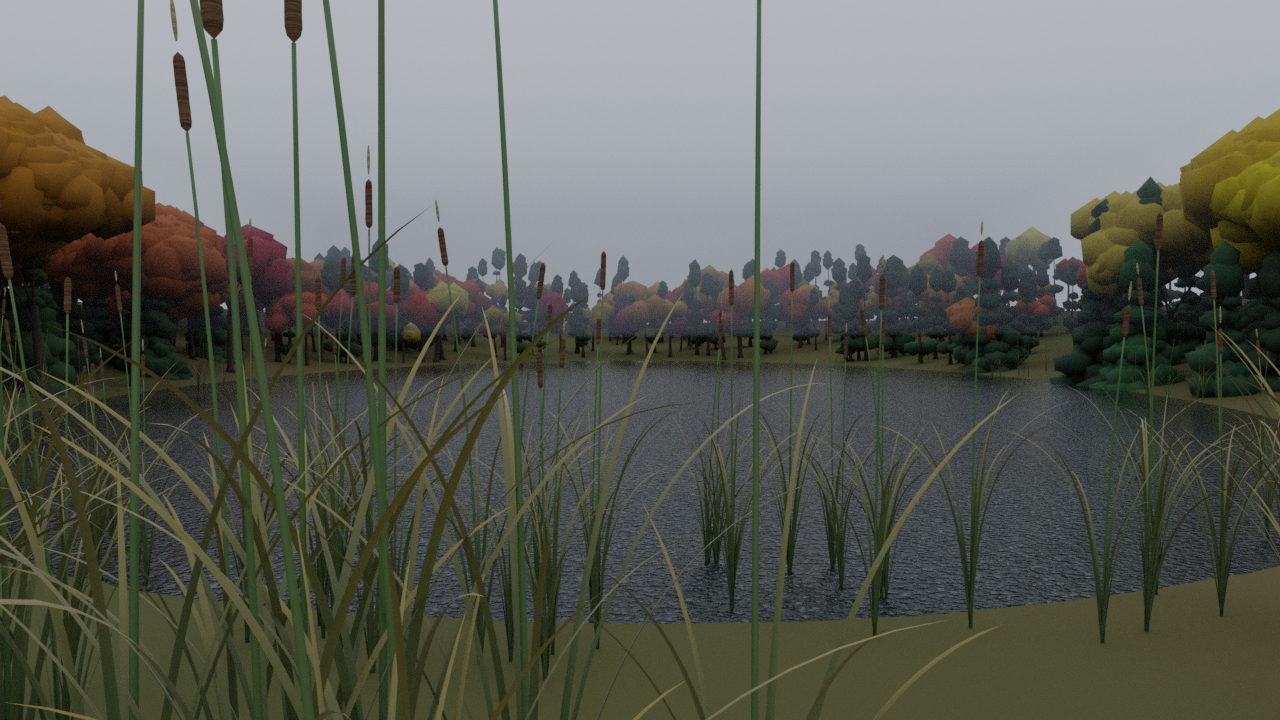
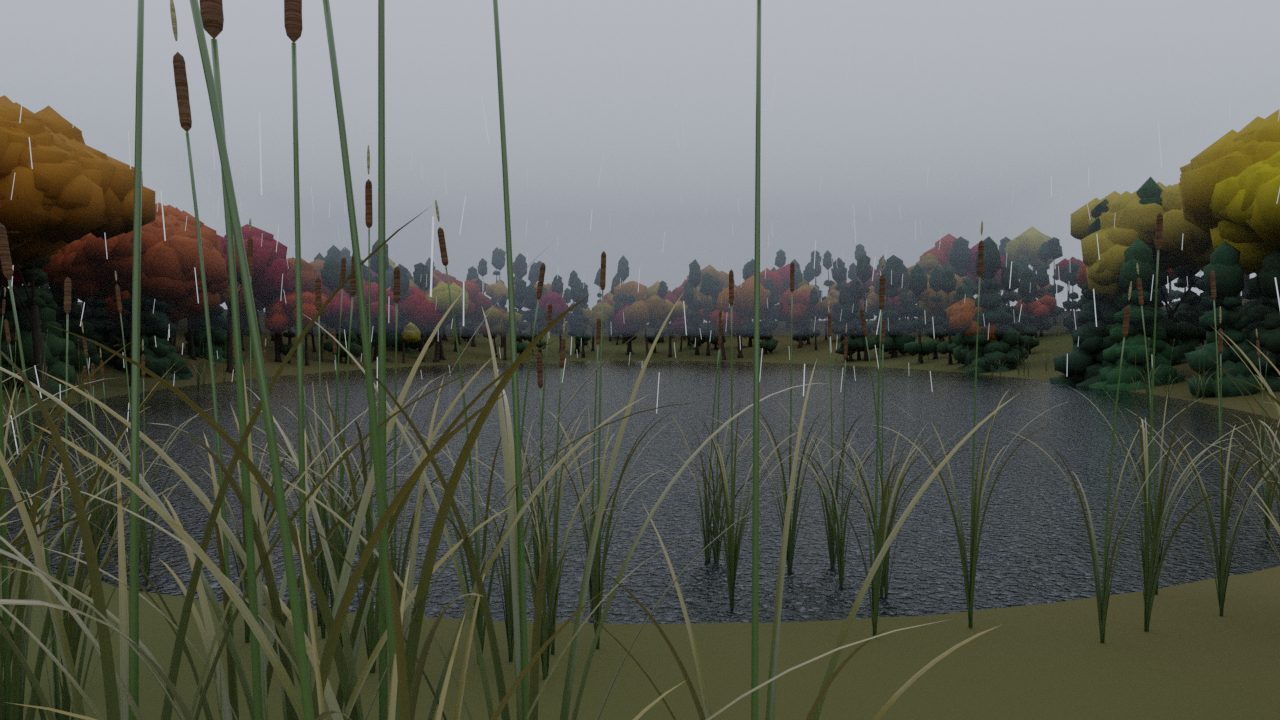
feat: falling rain streaks + wet reeds in Autumn Rain mode
- rain_lib.add_rain_streaks(): a curtain of thin, faintly self-lit falling
  streaks (elongated 4-sided cylinders, transparent+emission mix) scattered
  through the camera view volume; deterministic seed, shadow-disabled
- Scene rain branch: switch cattails to the wet material variant
  (make_cattail_materials(wet=RAIN)) and strengthen the clear-coat sheen /
  lower roughness on leaf + stem so the reeds read as visibly soaked

Claude-Session: https://claude.ai/code/session_01CuW7hnj9F7qPsBtbqNVBjm

diff --git a/renders/autumn-lake/rain_lib.py b/renders/autumn-lake/rain_lib.py
@@ -1,6 +1,6 @@
 # rain_lib.py — turn the autumn lake into a moody "Autumn Rain" scene.
 #
-# Three atmospheric building blocks (Blender 4.x node API):
+# Atmospheric building blocks (Blender 4.x node API):
 #   1. make_overcast_world() — heavy overcast sky: soft, diffuse cool-grey/blue
 #      world light with no sun disc, so there are no harsh sun shadows.
 #   2. add_volumetric_mist()  — a Principled Volume cube wrapping the camera +
@@ -8,6 +8,10 @@
 #      distant forest and hides the far low-poly edges (atmospheric depth).
 #   3. apply_rain_ripples()   — rebuilds the lake normals from tiled Voronoi +
 #      Noise through a Color Ramp, breaking the mirror into hundreds of splashes.
+#   4. add_rain_streaks()     — a curtain of thin, faintly-emissive falling
+#      streaks through the camera view (motion-blur-look rain).
+import math
+import random
 import bpy
 
 
@@ -131,3 +135,45 @@ def apply_rain_ripples(mat, scale=1.6, strength=0.32, roughness=0.06,
     nt.links.new(ramp.outputs["Color"], bump.inputs["Height"])
     nt.links.new(bump.outputs["Normal"], p.inputs["Normal"])
     return mat
+
+
+# ------------------------------------------------- 4. falling rain streaks ----
+def add_rain_streaks(scene, count=650, box=(-35, 35, -50, 8, 0.5, 22),
+                     length=(0.35, 0.75), radius=0.013, tilt_deg=(3, 10),
+                     emission=0.7, mix=0.92, seed=7):
+    """A curtain of thin, faintly self-lit streaks through the camera view.
+       Each is an elongated 4-sided cylinder (a motion-blurred raindrop)."""
+    rng = random.Random(seed)
+    x0, x1, y0, y1, z0, z1 = box
+
+    mat = bpy.data.materials.new("RainStreak")
+    mat.use_nodes = True
+    nt = mat.node_tree
+    nt.nodes.clear()
+    out = nt.nodes.new("ShaderNodeOutputMaterial")
+    mixsh = nt.nodes.new("ShaderNodeMixShader")
+    mixsh.inputs["Fac"].default_value = mix          # mostly transparent
+    tr = nt.nodes.new("ShaderNodeBsdfTransparent")
+    em = nt.nodes.new("ShaderNodeEmission")
+    em.inputs["Color"].default_value = (0.72, 0.78, 0.85, 1.0)
+    em.inputs["Strength"].default_value = emission
+    nt.links.new(tr.outputs["BSDF"], mixsh.inputs[1])
+    nt.links.new(em.outputs["Emission"], mixsh.inputs[2])
+    nt.links.new(mixsh.outputs["Shader"], out.inputs["Surface"])
+
+    bpy.ops.mesh.primitive_cylinder_add(radius=radius, depth=1.0, vertices=4,
+                                        location=(0, -500, 0))
+    tpl = bpy.context.object
+    tpl.name = "RainStreakTpl"
+    tpl.data.materials.append(mat)
+    tpl.hide_render = True
+
+    for i in range(count):
+        s = bpy.data.objects.new("RainStreak", tpl.data)
+        s.location = (rng.uniform(x0, x1), rng.uniform(y0, y1), rng.uniform(z0, z1))
+        s.rotation_euler = (math.radians(rng.uniform(*tilt_deg)), 0.0,
+                            rng.uniform(0, math.tau))
+        s.scale = (1.0, 1.0, rng.uniform(*length))
+        s.visible_shadow = False
+        scene.collection.objects.link(s)
+    return tpl

diff --git a/renders/autumn-lake/autumn_lake_scene.py b/renders/autumn-lake/autumn_lake_scene.py
@@ -262,7 +262,8 @@ def cattail_base_z(x, y):
     """Sit bases right at the waterline, a touch submerged."""
     return max(min(ground_h(x, y), 0.05), -0.18)
 
-cat_mats = ct.make_cattail_materials(wet=False, warm=True)
+# in rain mode the reeds get the wet material variant (clear-coat sheen + droplets)
+cat_mats = ct.make_cattail_materials(wet=RAIN, warm=True)
 cat_acc = ct.new_accumulators()
 
 # dense fringe strung along the whole near shoreline arc
@@ -363,6 +364,16 @@ if RAIN:
                            density=0.010, anisotropy=0.7)
     # 3. procedural rain ripples break the mirror into hundreds of splashes
     rl.apply_rain_ripples(mat_water, scale=1.6, strength=0.32)
+    # 4. a curtain of fine falling rain streaks through the camera view
+    rl.add_rain_streaks(scene, count=800, radius=0.009, emission=0.55,
+                        length=(0.5, 1.0))
+    # 5. soak the reeds: stronger clear-coat sheen so they read as wet
+    for _key in ("leaf", "stem"):
+        _p = cat_mats[_key].node_tree.nodes.get("Principled BSDF")
+        if _p:
+            _p.inputs["Coat Weight"].default_value = 0.6
+            _p.inputs["Coat Roughness"].default_value = 0.04
+            _p.inputs["Roughness"].default_value = 0.28
 
 # --------------------------------------- high-detail micropolygon displacement --
 # Cycles Adaptive Subdivision gives the ground, mud and rocks true 4K geometric